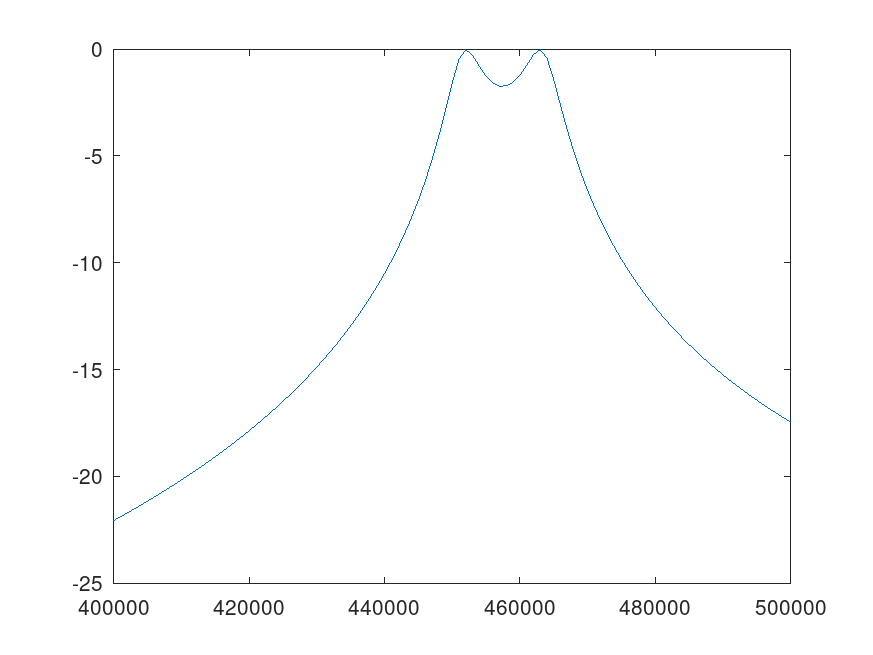
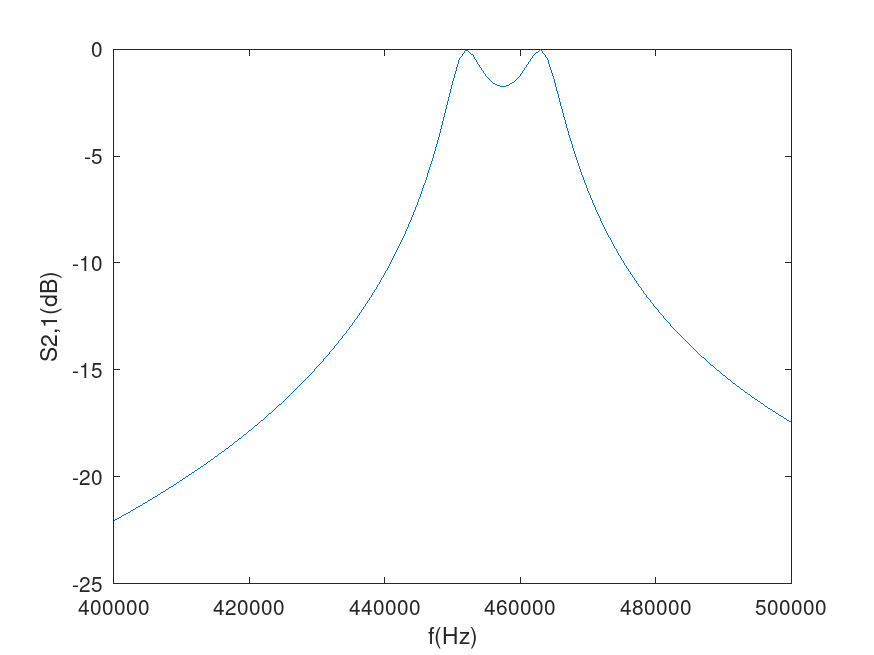
Labels for the plot

diff --git a/ABCDmatrix/abcdmatrix.m b/ABCDmatrix/abcdmatrix.m
@@ -60,4 +60,6 @@ for i = 1:length(f)
 end
 
 plot(f, S21dBplot)
+xlabel("f(Hz)");
+ylabel("S2,1(dB)");
 pause()
